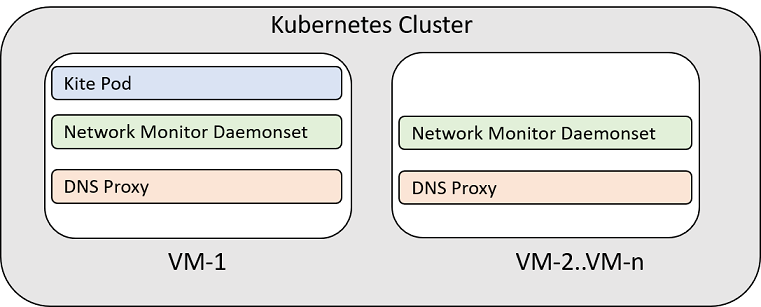
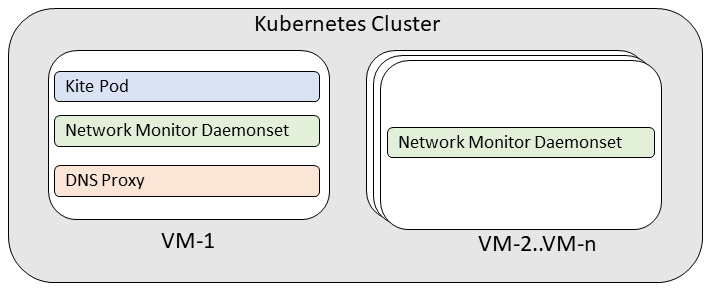
securechange post ga

Changed region(s): [[0.0, 0.0, 1.0, 1.0], [0.4965, 0.1552, 0.9309, 0.9]]

diff --git a/Content/Resources/Stylesheets/styles.css b/Content/Resources/Stylesheets/styles.css
@@ -1,8 +1,6 @@
 /*<meta />*/
-
-:root
-{
-	--HeadColor: #00829C;
+:root {
+	
 }
 
 body
@@ -12,6 +10,10 @@ body
 	font-size: 14px;
 	line-height: 24px;
 	mc-hyphenate: never;
+
+	/* These default values are overridden in the theme-sidenav.css */
+	--HeadColor: #00829b;
+	--SubHeadColor: #f4f5f4; 
 }
 
 a
@@ -184,7 +186,7 @@ h3
 
 h4
 {
-	color: #666666;
+	color: #333333;
 	font-family: "Open Sans";
 	font-size: 1.2em;
 	font-weight: normal;
@@ -277,7 +279,7 @@ p.h3
 
 p.h4
 {
-	color: #666666;
+	color: #333333;
 	font-family: "Open Sans";
 	font-size: 1.2em;
 	font-weight: normal;
@@ -290,7 +292,7 @@ p.h4
 
 p.h5
 {
-	color: #333333;
+	color: #666666;
 	font-family: "Open Sans";
 	font-size: 1.2em;
 	font-weight: normal;
@@ -303,6 +305,7 @@ p.h5
 
 p.SubHead1
 {
+
 	color: var(--HeadColor);
 	font-family: "Open Sans";
 	font-size: 1.2em;
@@ -311,8 +314,9 @@ p.SubHead1
 	margin-top: 16px;
 	mc-next-tag: p;
 	mc-next-class: normal;
-	background-color: #DEE8EA;
+	background-color: var(--SubHeadColor);
 }
+
 /*
 p.SubHead1::before
 	{
@@ -321,6 +325,7 @@ p.SubHead1::before
 		font-size: 0.9em;
 	}
 */
+
 
 p.ProcedureIntro, p.procedureintro
 {

diff --git a/Content/Kubernetes/Architecture.htm b/Content/Kubernetes/Architecture.htm
@@ -17,7 +17,7 @@
         </p>
         <p><span class="SpecialBold">SecureCloud on your Cluster - Namespaces</span>
         </p>
-        <p>At installation time, Kubernetes determines the node on which to deploy the Kite pod and deploys the Network Monitor daemonset on every node in the cluster, where permissions allow. This is represented by the illustration below.</p>
+        <p>At installation time, Kubernetes determines the node on which to deploy the Kite pod and DNS&#160;proxy; it deploys the Network Monitor daemonset on every node in the cluster, where permissions allow. This is represented by the illustration below.</p>
         <p>
             <img src="../SecureCloud-Images/Diagram_Cluster_VMs.png" class="noborder">
             </img>

diff --git a/Content/Resources/Custom/theme-sidenav.css b/Content/Resources/Custom/theme-sidenav.css
@@ -44,6 +44,13 @@ ul.menu._Skins_SideMenu.mc-component li > a {
 }
 
 /* TOS2 */
+
+.theme-tos2 div {
+	/*The default colors are set in styles.css, but can be overridden per theme here*/
+	--HeadColor: #00829b;
+	--SubHeadColor: #f4f5f4; 
+}
+
 .theme-tos2 nav.title-bar {
 	background-color: #EA7600;
 	background-image: url('Images/headerTos2_105px.jpg');
@@ -63,6 +70,14 @@ ul.menu._Skins_SideMenu.mc-component li > a {
 }
 
 /* SecureCloud */
+
+.theme-securecloud div {
+	/*The default colors are set in styles.css, but can be overridden per theme here*/
+	--HeadColor: #00829b;
+	--SubHeadColor: #f4f5f4; 
+	
+}
+
 .theme-securecloud nav.title-bar {
 	background-color: #074c7b;
 	background-image: url('Images/headerSecureCloud_105px.jpg');

diff --git a/Content/Kubernetes/Discovery.htm b/Content/Kubernetes/Discovery.htm
@@ -20,6 +20,9 @@
         <p>
             <img src="../Kubernetes-Images/Discovery_NewConnections.png" class="ThumbnailPopup" />
         </p>
+        <p>
+            <img src="../SecureCloud-Images/Screen_NewConnections.png" />
+        </p>
         <p>The number of connections in the New Connections Window is displayed at the top of the screen. The window contains the following information:</p>
         <table style="width: 100%;mc-table-style: url('../Resources/TableStyles/PatternedRows.css');" class="TableStyle-PatternedRows" cellspacing="0">
             <col class="TableStyle-PatternedRows-Column-Regular" style="width: 88px;" />
